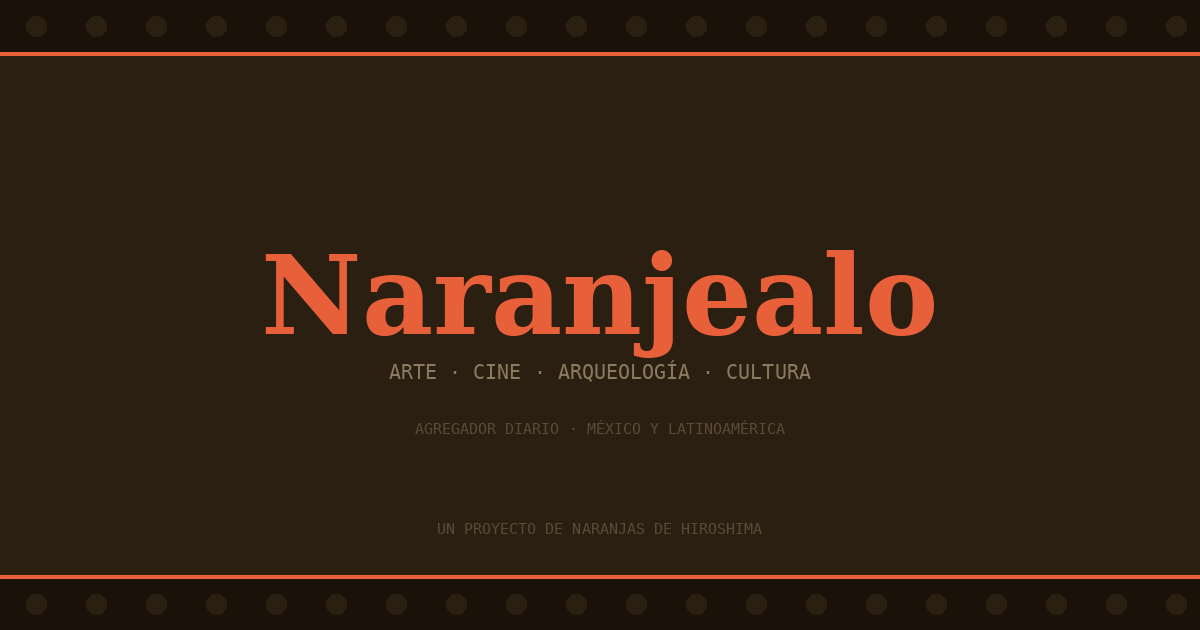
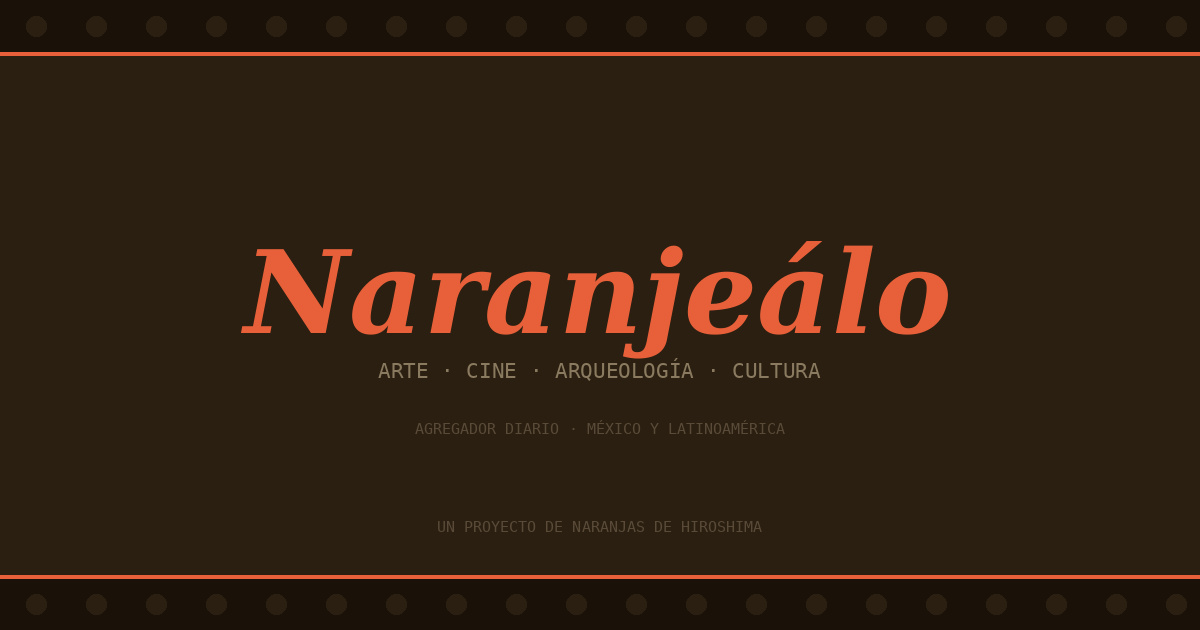
Add files via upload

diff --git a/index.html b/index.html
@@ -4,18 +4,18 @@
 <meta charset="UTF-8">
 <link rel="icon" href="favicon.ico" type="image/x-icon">
 <meta property="og:type" content="website">
-<meta property="og:title" content="Naranjealo · Arte, Cine, Arqueología, Cultura">
+<meta property="og:title" content="Naranjeálo · Arte, Cine, Arqueología, Cultura">
 <meta property="og:description" content="Agregador diario de noticias de cine, arte, arqueología, música y cultura. México, América Latina y archivos fílmicos. Un proyecto de Naranjas de Hiroshima.">
 <meta property="og:image" content="https://naranjasdehiroshima.github.io/naranjealo/og-image.jpg">
 <meta property="og:url" content="https://naranjasdehiroshima.github.io/naranjealo/">
-<meta property="og:site_name" content="Naranjealo">
+<meta property="og:site_name" content="Naranjeálo">
 <meta name="twitter:card" content="summary_large_image">
-<meta name="twitter:title" content="Naranjealo · Arte, Cine, Arqueología, Cultura">
+<meta name="twitter:title" content="Naranjeálo · Arte, Cine, Arqueología, Cultura">
 <meta name="twitter:description" content="Agregador diario de noticias de cine, arte, arqueología, música y cultura. México, América Latina y archivos fílmicos.">
 <meta name="twitter:image" content="https://naranjasdehiroshima.github.io/naranjealo/og-image.jpg">
 <meta name="viewport" content="width=device-width,initial-scale=1,viewport-fit=cover">
 <meta name="theme-color" content="#0a0a08">
-<title>Naranjealo</title>
+<title>Naranjeálo</title>
 <link rel="preconnect" href="https://fonts.googleapis.com">
 <link href="https://fonts.googleapis.com/css2?family=Libre+Baskerville:ital,wght@0,700;1,400&family=IBM+Plex+Sans:wght@300;400;500&display=swap" rel="stylesheet">
 <style>
@@ -166,7 +166,7 @@ footer a:hover{color:var(--org2)}
 <header class="masthead">
   <div class="film-strip"><div class="film-hole"></div><div class="film-hole"></div><div class="film-hole"></div><div class="film-hole"></div><div class="film-hole"></div><div class="film-hole"></div><div class="film-hole"></div><div class="film-hole"></div><div class="film-hole"></div><div class="film-hole"></div><div class="film-hole"></div><div class="film-hole"></div><div class="film-hole"></div><div class="film-hole"></div><div class="film-hole"></div><div class="film-hole"></div><div class="film-hole"></div><div class="film-hole"></div><div class="film-hole"></div><div class="film-hole"></div><div class="film-hole"></div><div class="film-hole"></div><div class="film-hole"></div><div class="film-hole"></div><div class="film-hole"></div><div class="film-hole"></div><div class="film-hole"></div><div class="film-hole"></div><div class="film-hole"></div><div class="film-hole"></div><div class="film-hole"></div><div class="film-hole"></div><div class="film-hole"></div><div class="film-hole"></div><div class="film-hole"></div><div class="film-hole"></div><div class="film-hole"></div><div class="film-hole"></div><div class="film-hole"></div><div class="film-hole"></div><div class="film-hole"></div><div class="film-hole"></div><div class="film-hole"></div><div class="film-hole"></div><div class="film-hole"></div></div>
   <div class="masthead-inner">
-    <div class="logo">Naranjealo <span>arte · cine · arqueología · cultura</span></div>
+    <div class="logo">Naranjeálo <span>arte · cine · arqueología · cultura</span></div>
     <div class="masthead-ndh">un proyecto de<br><a href="https://www.naranjasdehiroshima.com" target="_blank" rel="noopener">Naranjas de Hiroshima</a></div>
   </div>
   <div class="film-strip"><div class="film-hole"></div><div class="film-hole"></div><div class="film-hole"></div><div class="film-hole"></div><div class="film-hole"></div><div class="film-hole"></div><div class="film-hole"></div><div class="film-hole"></div><div class="film-hole"></div><div class="film-hole"></div><div class="film-hole"></div><div class="film-hole"></div><div class="film-hole"></div><div class="film-hole"></div><div class="film-hole"></div><div class="film-hole"></div><div class="film-hole"></div><div class="film-hole"></div><div class="film-hole"></div><div class="film-hole"></div><div class="film-hole"></div><div class="film-hole"></div><div class="film-hole"></div><div class="film-hole"></div><div class="film-hole"></div><div class="film-hole"></div><div class="film-hole"></div><div class="film-hole"></div><div class="film-hole"></div><div class="film-hole"></div><div class="film-hole"></div><div class="film-hole"></div><div class="film-hole"></div><div class="film-hole"></div><div class="film-hole"></div><div class="film-hole"></div><div class="film-hole"></div><div class="film-hole"></div><div class="film-hole"></div><div class="film-hole"></div><div class="film-hole"></div><div class="film-hole"></div><div class="film-hole"></div><div class="film-hole"></div><div class="film-hole"></div></div>